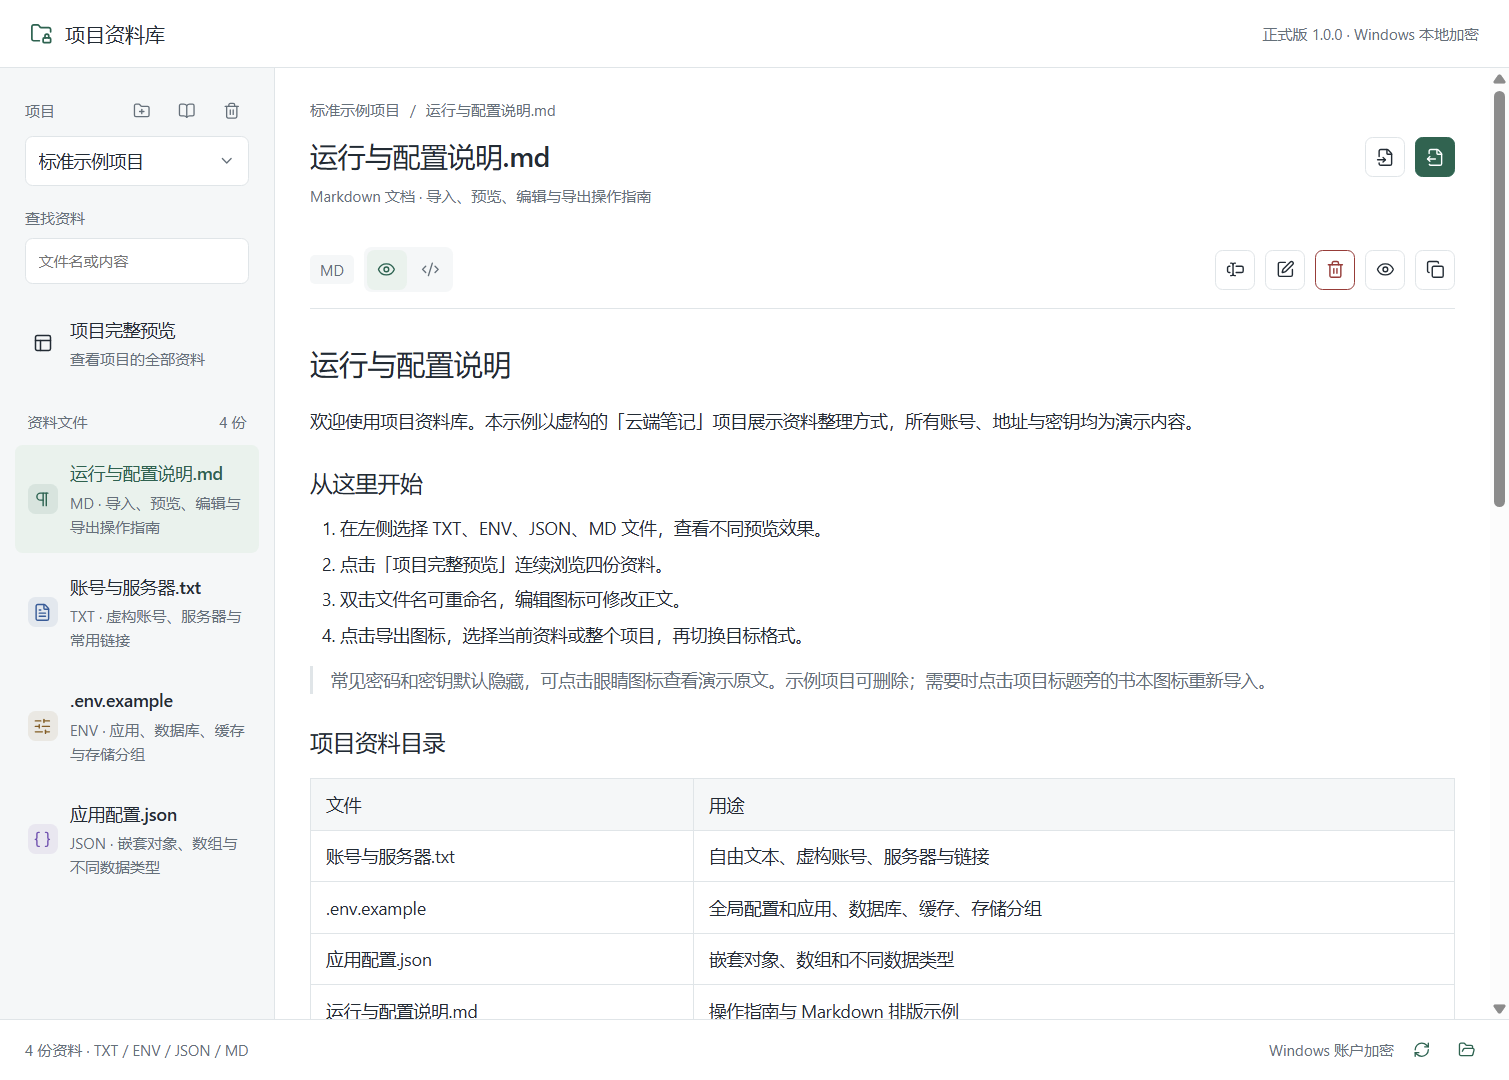
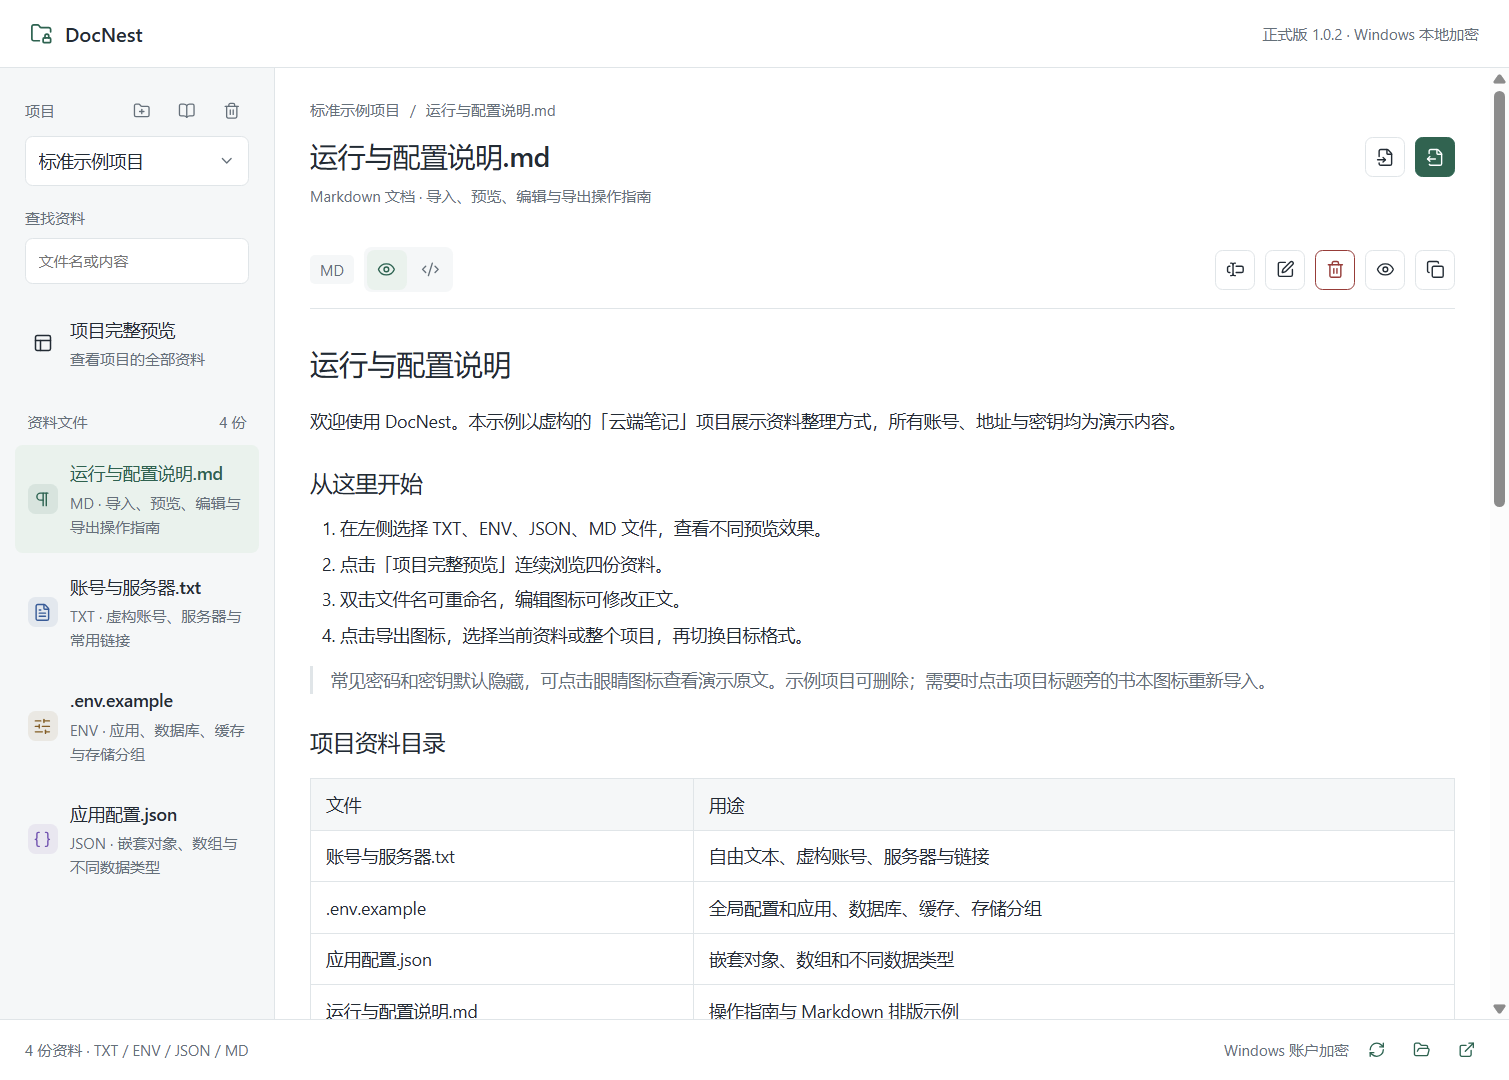
Rename application to DocNest and allow custom directories during updates

diff --git a/ui/index.html b/ui/index.html
@@ -4,16 +4,16 @@
 <meta charset="utf-8">
 <meta name="viewport" content="width=device-width, initial-scale=1">
 <meta http-equiv="Content-Security-Policy" content="default-src 'self'; script-src 'self'; style-src 'self' 'unsafe-inline'; img-src data:; font-src 'self'; connect-src 'none'; object-src 'none'; frame-src 'none'; base-uri 'none'; form-action 'none'">
-<title>项目资料库</title>
+<title>DocNest</title>
 <link rel="stylesheet" href="app.css">
 <script src="renderer.js" defer></script>
 </head>
 <body>
-<div id="project-vault-preview" aria-label="项目资料库桌面版">
+<div id="project-vault-preview" aria-label="DocNest桌面版">
   <div class="pv-window">
     <header class="pv-top">
-      <div class="pv-brand"><i data-lucide="folder-lock" aria-hidden="true"></i>项目资料库</div>
-      <span class="pv-caption">正式版 1.0.1 · Windows 本地加密</span>
+      <div class="pv-brand"><i data-lucide="folder-lock" aria-hidden="true"></i>DocNest</div>
+      <span class="pv-caption">正式版 1.0.2 · Windows 本地加密</span>
     </header>
     <div class="pv-shell">
       <aside class="pv-sidebar" aria-label="项目与资料">

diff --git a/ui/renderer.js b/ui/renderer.js
@@ -217,7 +217,7 @@ globalThis.lucide = { createIcons: options => createIcons({ ...options, icons })
     byId('pv-copy').disabled = !hasRecords;
     byId('pv-reveal').disabled = !hasRecords;
     if (!hasProject) {
-      byId('pv-breadcrumb-project').textContent = '项目资料库';
+      byId('pv-breadcrumb-project').textContent = 'DocNest';
       byId('pv-breadcrumb-file').textContent = '新建项目';
       byId('pv-title').textContent = '还没有项目';
       byId('pv-subtitle').textContent = '点击左侧“新建项目”，开始整理你的资料。';

diff --git a/scripts/smoke_windows.py b/scripts/smoke_windows.py
@@ -18,13 +18,13 @@ check_root.mkdir(parents=True)
 data_root = check_root / 'user-data'
 export_root = check_root / 'exports'
 export_root.mkdir()
-executable = app_root / 'release' / 'win-unpacked' / '项目资料库.exe'
+executable = app_root / 'release' / 'win-unpacked' / 'DocNest.exe'
 assert executable.exists(), 'Build the Windows app first.'
 update_config = json.loads(subprocess.check_output(['node', '-e', "console.log(JSON.stringify(require('js-yaml').load(require('fs').readFileSync(process.argv[1],'utf8'))))", str(executable.parent / 'resources' / 'app-update.yml')], cwd=app_root, text=True, creationflags=subprocess.CREATE_NO_WINDOW))
 assert update_config == {'provider': 'github', 'owner': 'zeng1144318071-bot', 'repo': 'project-vault-desktop', 'updaterCacheDirName': 'project-vault-preview-updater'}
 standard = json.loads((app_root / 'examples/project-vault-example.json').read_text(encoding='utf-8'))
 assert (app_root / 'release/project-vault-example.json').read_bytes() == (app_root / 'examples/project-vault-example.json').read_bytes()
-with zipfile.ZipFile(app_root / 'release' / f'ProjectVault-Examples-{app_version}.zip') as example_zip:
+with zipfile.ZipFile(app_root / 'release' / f'DocNest-Examples-{app_version}.zip') as example_zip:
     assert example_zip.testzip() is None
     members = {name for name in example_zip.namelist() if not name.endswith('/')}
     assert members == {'examples/' + file['name'] for file in standard['files']} | {'examples/project-vault-example.json', 'examples/README.md'}
@@ -161,7 +161,7 @@ def capture(main, name):
 process, main, renderer, log = start_app('initial')
 try:
     assert main.evaluate("globalThis.__pvElectron.app.getVersion()") == app_version
-    assert main.evaluate("globalThis.__pvElectron.BrowserWindow.getAllWindows()[0].getTitle()") == '项目资料库'
+    assert main.evaluate("globalThis.__pvElectron.BrowserWindow.getAllWindows()[0].getTitle()") == 'DocNest'
     assert renderer.evaluate("document.getElementById('pv-project').options.length") == 1
     assert renderer.evaluate("document.getElementById('pv-project').selectedOptions[0].textContent") == '标准示例项目'
     click(renderer, 'pv-project-example')

diff --git a/README.md b/README.md
@@ -1,4 +1,4 @@
-# 项目资料库 · Project Vault
+# DocNest
 
 [![Windows checks](https://github.com/zeng1144318071-bot/project-vault-desktop/actions/workflows/ci.yml/badge.svg)](https://github.com/zeng1144318071-bot/project-vault-desktop/actions/workflows/ci.yml)
 [![Release](https://img.shields.io/github/v/release/zeng1144318071-bot/project-vault-desktop)](https://github.com/zeng1144318071-bot/project-vault-desktop/releases/latest)
@@ -6,11 +6,11 @@
 
 把散落在记事本里的项目说明、服务器资料和环境配置整理到一个本地桌面工具中。
 
-项目资料库支持 **TXT、ENV、JSON、Markdown** 四种格式的导入、预览、编辑与转换，按项目集中查看，并使用 Windows 当前账户的 DPAPI 加密保存。应用每 5 分钟检查 GitHub 新版本，安装包下载完成后提示安装。
+DocNest 支持 **TXT、ENV、JSON、Markdown** 四种格式的导入、预览、编辑与转换，按项目集中查看，并使用 Windows 当前账户的 DPAPI 加密保存。应用每 5 分钟检查 GitHub 新版本，安装包下载完成后提示安装。
 
 **[下载 Windows 安装包](https://github.com/zeng1144318071-bot/project-vault-desktop/releases/latest) · [标准示例](examples/README.md) · [版本记录](CHANGELOG.md) · [参与开发](CONTRIBUTING.md)**
 
-![项目资料库：项目与 Markdown 预览，全部为虚构演示资料](docs/images/overview.png)
+![DocNest：项目与 Markdown 预览，全部为虚构演示资料](docs/images/overview.png)
 
 ## 能做什么
 
@@ -30,7 +30,7 @@
 
 ## 安装与使用
 
-适用于 **Windows 10 / 11 x64**。从 [Releases](https://github.com/zeng1144318071-bot/project-vault-desktop/releases/latest) 下载 `ProjectVault-Setup-版本号-x64.exe`，运行后选择安装目录。程序自带运行环境，无需安装 Node.js。安装程序创建桌面和开始菜单快捷方式；旧版可直接覆盖升级，卸载时保留用户资料。
+适用于 **Windows 10 / 11 x64**。从 [Releases](https://github.com/zeng1144318071-bot/project-vault-desktop/releases/latest) 下载 `DocNest-Setup-版本号-x64.exe`，安装向导提供目录输入框和“浏览”按钮，可选择自定义安装目录；从应用内更新时也显示该页面，并默认带出原安装位置。选择的是最终安装目录，例如 `D:\Apps\DocNest`。程序自带运行环境，无需安装 Node.js。安装程序创建桌面和开始菜单快捷方式；旧版可直接覆盖升级，卸载时保留用户资料。
 
 首次启动显示一个“标准示例项目”，包含 TXT、ENV、JSON、MD 四份完整资料。示例使用虚构账号、`example.com` 域名和文档专用 IP，可自由修改或删除。已有资料升级后保留原样，可点击左侧“项目”标题旁的书本图标导入独立示例；内容完整的示例已存在时直接打开，已修改的示例保留并另建带编号的项目。按钮悬停或键盘聚焦时会显示名称。
 
@@ -41,7 +41,7 @@
 
 右下角的外部链接图标可打开本项目的 GitHub 仓库。悬停或通过 Tab 聚焦时显示完整地址，点击后由默认浏览器打开，可查看源码、版本记录或反馈问题。
 
-标准示例也单独提供 [项目 JSON](examples/project-vault-example.json) 和 Release 中的 `ProjectVault-Examples-版本号.zip`。项目 JSON 可一次恢复四份原始资料；ZIP 内含四份原始文件、项目 JSON 和说明，方便测试单文件导入。详细内容见 [示例说明](examples/README.md)。
+标准示例也单独提供 [项目 JSON](examples/project-vault-example.json) 和 Release 中的 `DocNest-Examples-版本号.zip`。项目 JSON 可一次恢复四份原始资料；ZIP 内含四份原始文件、项目 JSON 和说明，方便测试单文件导入。详细内容见 [示例说明](examples/README.md)。
 
 | 快捷键 | 操作 |
 | --- | --- |
@@ -68,7 +68,7 @@
 
 ## 数据与隐私
 
-资料通过 Electron `safeStorage` 调用 Windows DPAPI 加密后保存在：
+资料通过 Electron `safeStorage` 调用 Windows DPAPI 加密后保存在以下目录。为兼容旧版，DocNest 继续使用原应用标识、更新缓存和资料目录；更换安装目录不会移动加密资料。
 
 ```text
 %APPDATA%\ProjectVaultPreview\vault.dat

diff --git a/CONTRIBUTING.md b/CONTRIBUTING.md
@@ -19,7 +19,7 @@
 2. 完成测试与代码审查，合并到 `main`。确认构建中不含个人数据或有效密钥。
 3. 创建并推送与版本一致的标签，例如 `git tag v1.0.0`，再执行 `git push origin v1.0.0`。
 4. `Windows release` 工作流在 Windows 上打包并运行窗口测试，再将同一程序目录制作成 NSIS 安装包。
-5. 检查 Release 包含 `ProjectVault-Setup-版本-x64.exe`、对应 `.exe.blockmap`、`latest.yml`、`ProjectVault-Examples-版本.zip`、`project-vault-example.json` 和 `SHA256SUMS.txt`，保持正式 Release，不能设为草稿或预发布。示例唯一来源为 `examples/project-vault-example.json`，修改后同时检查首次启动、示例图标和资料包导入。
+5. 检查 Release 包含 `DocNest-Setup-版本-x64.exe`、对应 `.exe.blockmap`、`latest.yml`、`DocNest-Examples-版本.zip`、`project-vault-example.json` 和 `SHA256SUMS.txt`，保持正式 Release，不能设为草稿或预发布。示例唯一来源为 `examples/project-vault-example.json`，修改后同时检查首次启动、示例图标和资料包导入。
 6. 旧版本更新器从最新稳定 Release 读取元数据。发布后验证下载链接和版本描述，不覆盖已经发布的版本文件；修复应递增版本号。
 
 首次发布可使用相同流程在本地构建、验证后上传全部产物。安装包目前未签名；如后续启用代码签名，应同时配置 CI 证书、发布者校验与文档。

diff --git a/CHANGELOG.md b/CHANGELOG.md
@@ -1,5 +1,11 @@
 # 版本记录
 
+## 1.0.2 — 2026-11-11
+
+- 应用正式更名为 DocNest，统一窗口、界面、程序文件、快捷方式和安装包名称。
+- 首次安装、手动覆盖安装及应用内更新均提供自定义目录页面，可直接输入路径或通过浏览选择，使用所选的最终目录。
+- 保留原应用标识、资料目录、资料包格式和更新来源，兼容已有加密资料与旧版升级。
+
 ## 1.0.1 — 2026-11-10
 
 - 右下角新增 GitHub 仓库图标入口，悬停或键盘聚焦显示完整仓库地址，点击后由默认浏览器打开。

diff --git a/examples/README.md b/examples/README.md
@@ -1,6 +1,6 @@
 # 标准示例项目
 
-这是一套完整的虚构项目资料，用于学习项目资料库的四种格式和导入导出功能。没有真实账户、服务器或可用密钥，域名使用 `example.com`，IP 使用文档专用地址段。
+这是一套完整的虚构项目资料，用于学习 DocNest 的四种格式和导入导出功能。没有真实账户、服务器或可用密钥，域名使用 `example.com`，IP 使用文档专用地址段。
 
 | 文件 | 展示内容 |
 | --- | --- |
